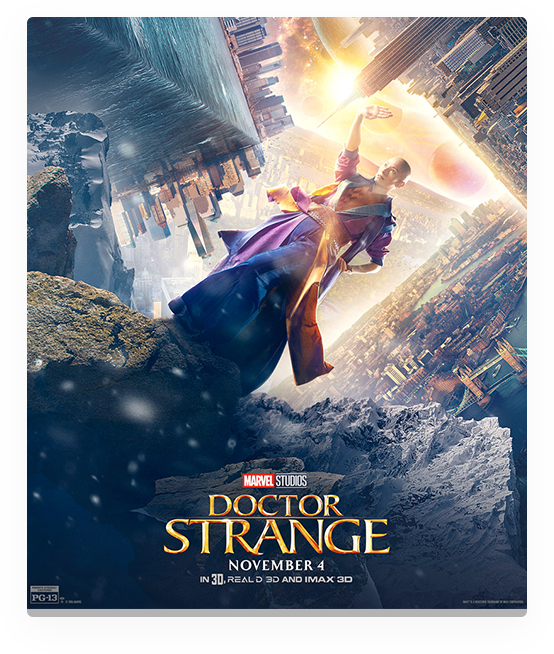
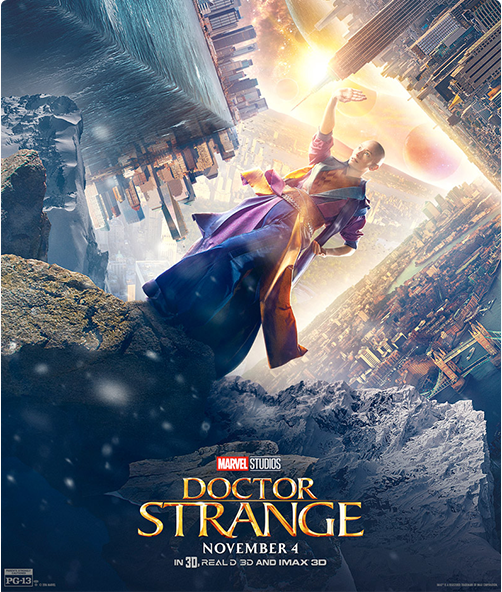
обрезала картинки

diff --git a/src/css/style.min.css b/src/css/style.min.css
@@ -1,1 +1,1 @@
-*{font-family:Roboto,sans-serif}.container{max-width:1920px;padding:25px 80px 50px 80px;display:flex;flex-direction:column;justify-content:space-between;margin:0 auto}.promo{background:url(../img/main.jpg);background-size:cover;background-repeat:no-repeat}.promo .container{min-height:100vh}.promo__decors{display:flex;flex-direction:column;align-items:flex-end}.promo__decor{width:6px;height:26px;background-color:rgba(255,255,255,.5);margin:10px 0;border-radius:3px;transition:.3s all;cursor:pointer}.promo__decor:hover{background-color:#0aaee4}.promo__title{font-size:60px;font-weight:700;text-transform:uppercase;color:#fff;margin:15px 0 0 0}.promo__ul{display:flex;color:#fff;list-style-type:none;padding:0}.promo__ul li{margin-right:34px;font-size:24px;font-weight:400}.promo__ul li:nth-child(4){border-right:2px solid #fff;padding-right:20px;margin-right:25px}.promo__rating{display:flex}.promo__rating img{margin:45px 15px 0 0}.promo__rating img:nth-child(5){margin-right:25px}.promo__links{color:#fff;margin-top:47px;border:solid 2px #0aaee4;border-radius:6px;padding:5px 14px}.promo__info{display:flex;justify-content:space-between;align-items:flex-end}.promo__favorites{font-size:28px;font-weight:400;color:#fff;border-right:7px dotted #fff;padding:0 34px 0 3px}.promo__favorites:hover{text-decoration:none;color:#ffdf99}.header{display:flex;justify-content:space-between;align-items:center}.header__sign{font-weight:400;font-size:28px;color:#fff}.header__sign:hover{text-decoration:none;color:#fff}.header__items{display:flex;align-items:center}.header__item{margin:0 22px}.header__item:nth-child(3){margin-left:38px;margin-right:0}.logo{text-transform:uppercase;font-size:50px;font-weight:100;color:#fff}.logo:hover{color:#fff;text-decoration:none}span{font-weight:900;text-transform:uppercase;color:#fff}.button{border-radius:6px;background-color:#0aaee4;border:none;font-size:28px;color:#fff;font-weight:400;text-transform:capitalize;padding:5px 27px;transition:.3s all}.button:hover{background-color:#3191ff}.button_card{padding:7px 20px}.button_opacity{background:0 0;border:2px solid #fff;padding:3px 27px;margin-left:42px;margin-right:32px;transition:.3s all}.button_opacity:hover{background:0 0;color:#ffdf99;border:2px solid #ffdf99}.catalog{background-color:#f5f6f6}.catalog__menu{position:relative;display:flex;justify-content:space-between}.catalog__menu::after{content:'';border-bottom:1px #c9c9c9 solid;width:100%;position:absolute;top:50px}.catalog__ul ul{display:flex;list-style-type:none;padding:0}.catalog__ul ul li{font-size:28px;font-weight:400;color:#0aaee4;margin-right:40px;padding-bottom:10px;cursor:pointer;transition:.2s all;opacity:.7;height:50px}.catalog__ul ul li:hover{opacity:1;border-bottom:2px solid}.catalog__ul ul li:nth-child(6){margin-right:15px}.catalog__ul ul li:nth-child(7){margin-right:0;padding:0 5px}.catalog__ul ul li.down{transform:rotate(90deg);font-weight:700;font-size:30px;border:none}.catalog hr{border-bottom:none;background-color:#f5f6f6;margin:-15px 13px -17px 13px;max-width:1730px}.catalog__decors{display:flex;justify-content:space-between;align-items:center;width:90px;height:40px}.catalog__decor{width:40px;display:flex;flex-wrap:wrap}.catalog__div{width:16px;height:14px;background-color:#3bb4e0;margin:3px 2px;border-radius:2px}.catalog__divs{width:35px;height:14px;background-color:#9e9e9e;margin:3px 0;border-radius:2px}.catalog__cards{display:flex;justify-content:space-between;flex-wrap:wrap}.card{width:400px;min-height:500px;margin-top:45px}.card_two{background-image:url(../img/bg_card.png);background-size:cover;background-repeat:no-repeat;padding:35px 35px 70px 35px;display:flex;flex-direction:column;justify-content:space-between}.card__options{display:flex;justify-content:space-between}.card__option{font-size:50px;font-weight:100;color:#fff;line-height:15px}.card__favorites{font-size:28px;font-weight:400;color:#fff;border-right:7px dotted #fff;padding:0 34px 0 3px;line-height:30px}.card__favorites:hover{text-decoration:none;color:#ffdf99}.card__two-descrs{display:flex;justify-content:space-between;align-items:flex-start}.card__block{font-size:20px;font-weight:400;color:#fff;line-height:35px;margin:20px 0 15px 0}.card__img img{width:100%;height:auto}.card__descrs{display:flex;justify-content:space-between;align-items:flex-start;background-color:#fff;height:160px;padding:45px 35px 40px 35px}.card__title{font-size:28px;font-weight:700;color:#242b2d}.card__title_white{color:#fff}.card__text{font-size:22px;font-weight:500;color:#47c3f0}.card__rating{border:solid 2px #0aaee4;border-radius:6px;padding:4px 14px;margin-top:5px}.card__rating_white{color:#fff}
+*{font-family:Roboto,sans-serif}.container{max-width:1920px;padding:25px 80px 50px 80px;display:flex;flex-direction:column;justify-content:space-between;margin:0 auto}.promo{background:url(../img/main.jpg);background-size:cover;background-repeat:no-repeat}.promo .container{min-height:100vh}.promo__decors{display:flex;flex-direction:column;align-items:flex-end}.promo__decor{width:6px;height:26px;background-color:rgba(255,255,255,.5);margin:10px 0;border-radius:3px;transition:.3s all;cursor:pointer}.promo__decor:hover{background-color:#0aaee4}.promo__title{font-size:60px;font-weight:700;text-transform:uppercase;color:#fff;margin:15px 0 0 0}.promo__ul{display:flex;color:#fff;list-style-type:none;padding:0}.promo__ul li{margin-right:34px;font-size:24px;font-weight:400}.promo__ul li:nth-child(4){border-right:2px solid #fff;padding-right:20px;margin-right:25px}.promo__rating{display:flex}.promo__rating img{margin:45px 15px 0 0}.promo__rating img:nth-child(5){margin-right:25px}.promo__links{color:#fff;margin-top:47px;border:solid 2px #0aaee4;border-radius:6px;padding:5px 14px}.promo__info{display:flex;justify-content:space-between;align-items:flex-end}.promo__favorites{font-size:28px;font-weight:400;color:#fff;border-right:7px dotted #fff;padding:0 34px 0 3px}.promo__favorites:hover{text-decoration:none;color:#ffdf99}.header{display:flex;justify-content:space-between;align-items:center}.header__sign{font-weight:400;font-size:28px;color:#fff}.header__sign:hover{text-decoration:none;color:#fff}.header__items{display:flex;align-items:center}.header__item{margin:0 22px}.header__item:nth-child(3){margin-left:38px;margin-right:0}.logo{text-transform:uppercase;font-size:50px;font-weight:100;color:#fff}.logo:hover{color:#fff;text-decoration:none}span{font-weight:900;text-transform:uppercase;color:#fff}.button{border-radius:6px;background-color:#0aaee4;border:none;font-size:28px;color:#fff;font-weight:400;text-transform:capitalize;padding:5px 27px;transition:.3s all}.button:hover{background-color:#3191ff}.button_card{padding:7px 20px}.button_opacity{background:0 0;border:2px solid #fff;padding:3px 27px;margin-left:42px;margin-right:32px;transition:.3s all}.button_opacity:hover{background:0 0;color:#ffdf99;border:2px solid #ffdf99}.catalog{background-color:#f5f6f6}.catalog__menu{position:relative;display:flex;justify-content:space-between}.catalog__menu::after{content:'';border-bottom:1px #c9c9c9 solid;width:100%;position:absolute;top:50px}.catalog__ul ul{display:flex;list-style-type:none;padding:0}.catalog__ul ul li{font-size:28px;font-weight:400;color:#0aaee4;margin-right:40px;padding-bottom:10px;cursor:pointer;transition:.2s all;opacity:.7;height:50px}.catalog__ul ul li:hover{opacity:1;border-bottom:2px solid}.catalog__ul ul li:nth-child(6){margin-right:15px}.catalog__ul ul li:nth-child(7){margin-right:0;padding:0 5px}.catalog__ul ul li.down{transform:rotate(90deg);font-weight:700;font-size:30px;border:none}.catalog hr{border-bottom:none;background-color:#f5f6f6;margin:-15px 13px -17px 13px;max-width:1730px}.catalog__decors{display:flex;justify-content:space-between;align-items:center;width:90px;height:40px}.catalog__decor{width:40px;display:flex;flex-wrap:wrap}.catalog__div{width:16px;height:14px;background-color:#3bb4e0;margin:3px 2px;border-radius:2px}.catalog__divs{width:35px;height:14px;background-color:#9e9e9e;margin:3px 0;border-radius:2px}.catalog__cards{display:flex;justify-content:space-between;flex-wrap:wrap}.card{width:400px;min-height:500px;margin-top:45px}.card_two{background-image:url(../img/bg_card.png);background-size:cover;background-repeat:no-repeat;padding:35px 35px 70px 35px;display:flex;flex-direction:column;justify-content:space-between}.card__options{display:flex;justify-content:space-between}.card__option{font-size:50px;font-weight:100;color:#fff;line-height:15px}.card__favorites{font-size:28px;font-weight:400;color:#fff;border-right:7px dotted #fff;padding:0 34px 0 3px;line-height:30px}.card__favorites:hover{text-decoration:none;color:#ffdf99}.card__two-descrs{display:flex;justify-content:space-between;align-items:flex-start}.card__block{font-size:20px;font-weight:400;color:#fff;line-height:35px;margin:20px 0 15px 0}.card__img img{width:100%;min-height:360px}.card__descrs{display:flex;justify-content:space-between;align-items:flex-start;background-color:#fff;height:160px;padding:45px 35px 40px 35px}.card__title{font-size:28px;font-weight:700;color:#242b2d}.card__title_white{color:#fff}.card__text{font-size:22px;font-weight:500;color:#47c3f0}.card__rating{border:solid 2px #0aaee4;border-radius:6px;padding:4px 14px;margin-top:5px}.card__rating_white{color:#fff}

diff --git a/src/sass/blocks/_cards.sass b/src/sass/blocks/_cards.sass
@@ -3,6 +3,7 @@
     min-height: 500px
     margin-top: 45px
     &_two
+        
         background-image: url(../img/bg_card.png)
         background-size: cover
         background-repeat: no-repeat
@@ -10,6 +11,9 @@
         display: flex
         flex-direction: column
         justify-content: space-between
+        
+  
+        
     &__options
         display: flex    
         justify-content: space-between
@@ -45,7 +49,7 @@
     &__img
         img
             width: 100%
-            height: auto
+            min-height: 360px 
     &__descrs
         display: flex
         justify-content: space-between
